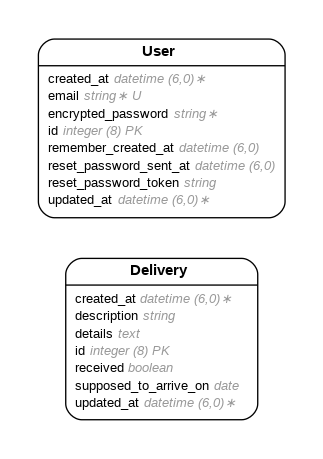
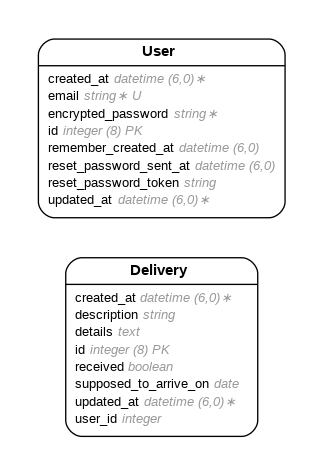
Add here's the migration for that column

Changed region(s): [[0.0929, 0.061, 0.8978, 0.488], [0.1858, 0.5185, 0.805, 0.9455]]

diff --git a/db/schema.rb b/db/schema.rb
@@ -10,7 +10,7 @@
 #
 # It's strongly recommended that you check this file into your version control system.
 
-ActiveRecord::Schema[7.1].define(version: 2025_05_07_223120) do
+ActiveRecord::Schema[7.1].define(version: 2025_05_07_224409) do
   # These are extensions that must be enabled in order to support this database
   enable_extension "plpgsql"
 
@@ -21,6 +21,7 @@ ActiveRecord::Schema[7.1].define(version: 2025_05_07_223120) do
     t.boolean "received"
     t.datetime "created_at", null: false
     t.datetime "updated_at", null: false
+    t.integer "user_id"
   end
 
   create_table "users", force: :cascade do |t|

diff --git a/app/models/delivery.rb b/app/models/delivery.rb
@@ -9,6 +9,7 @@
 #  supposed_to_arrive_on :date
 #  created_at            :datetime         not null
 #  updated_at            :datetime         not null
+#  user_id               :integer
 #
 class Delivery < ApplicationRecord
 end
